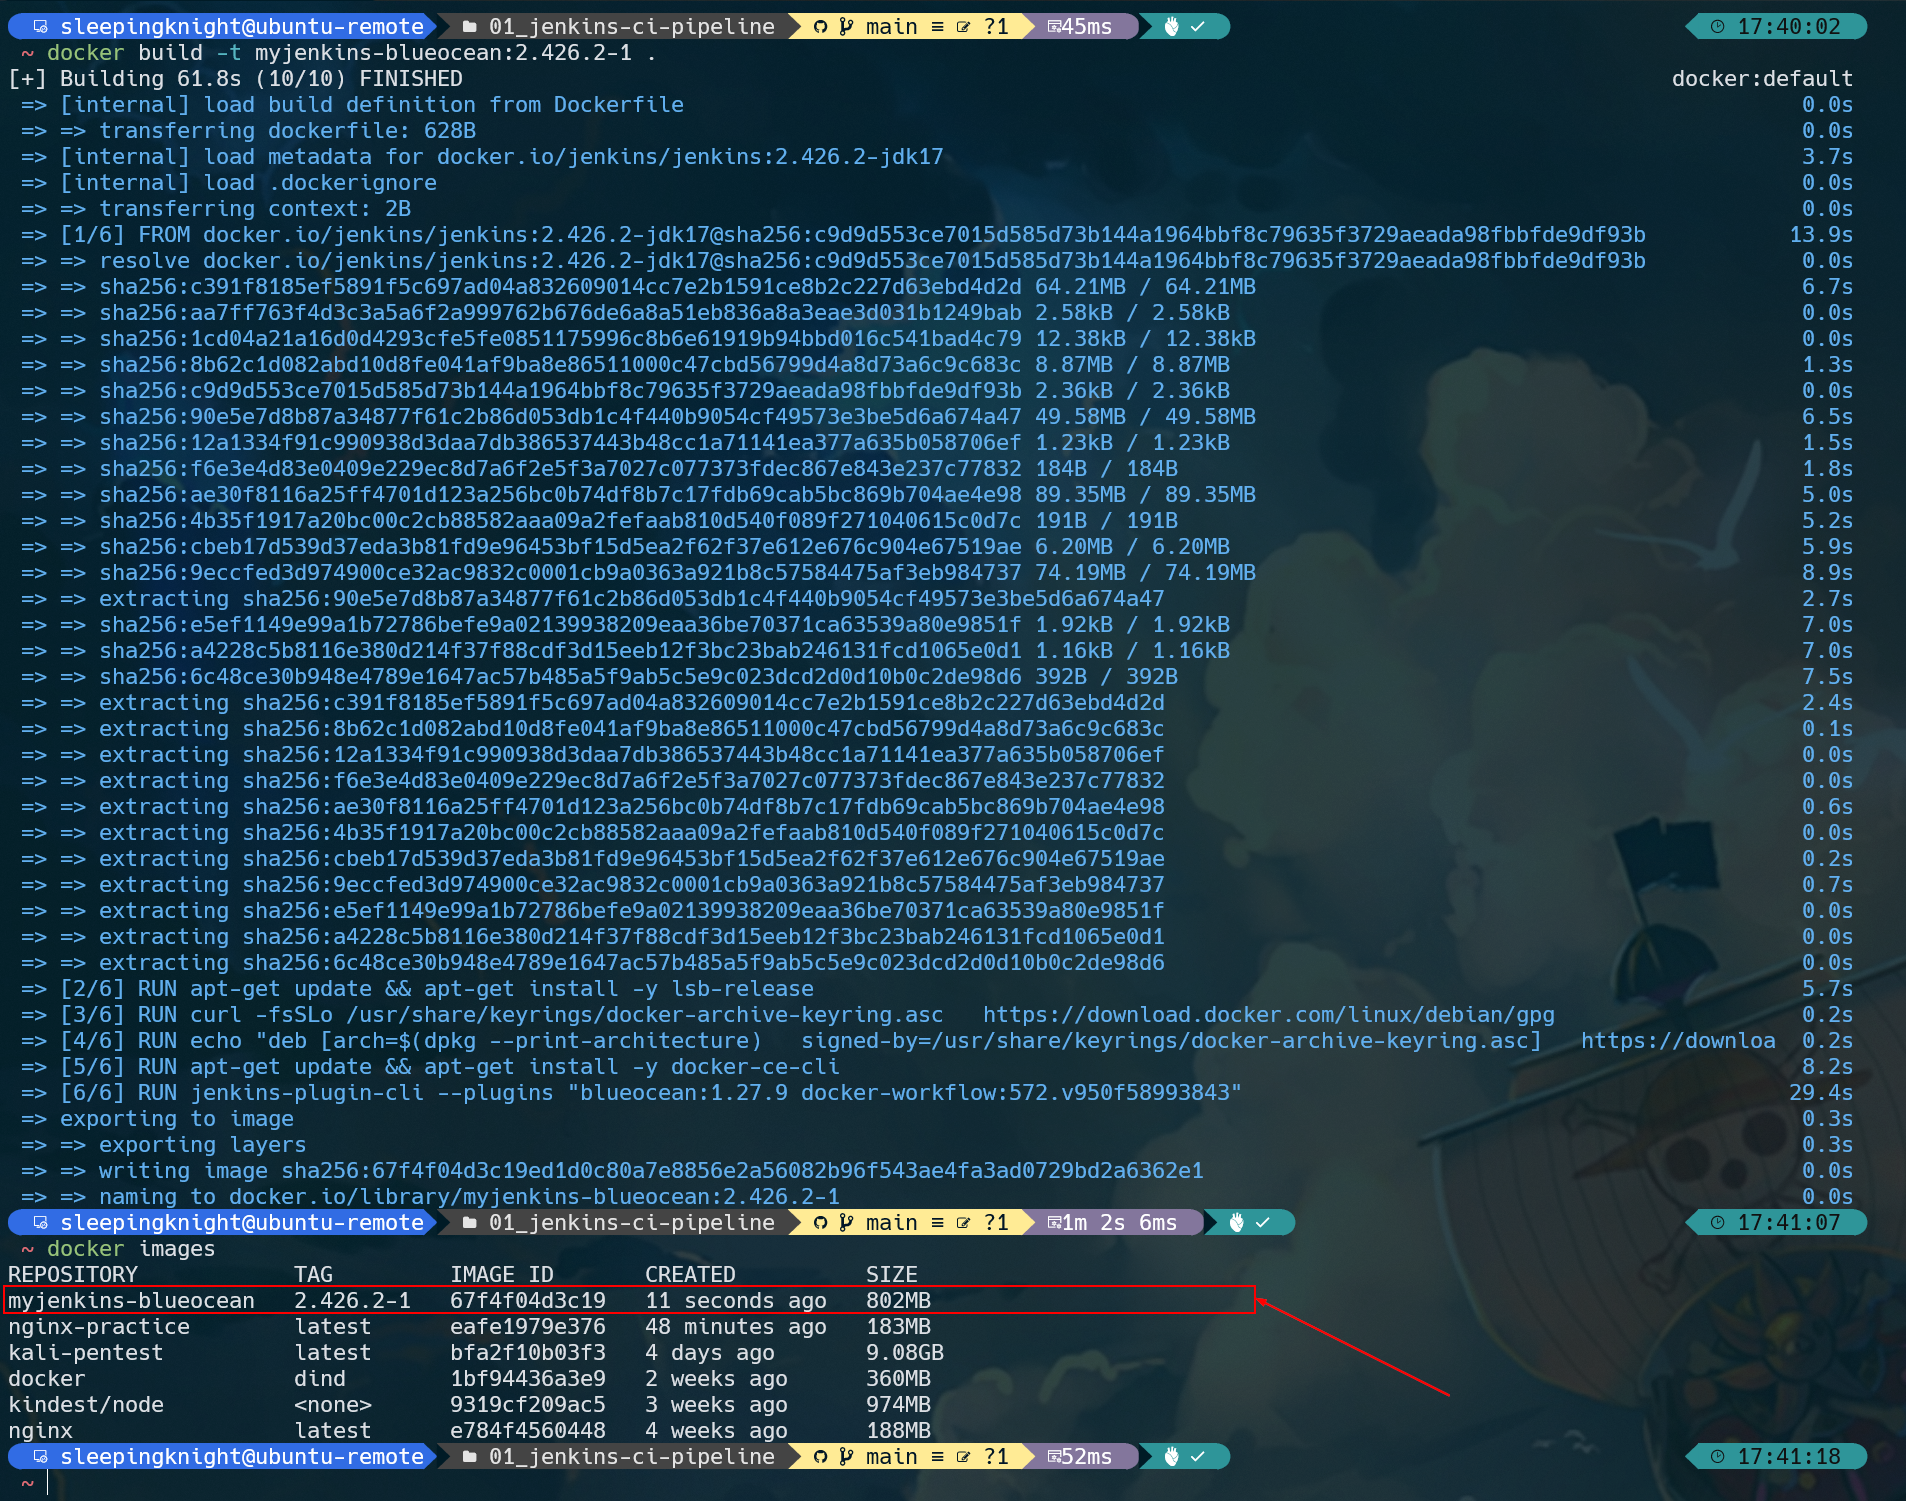
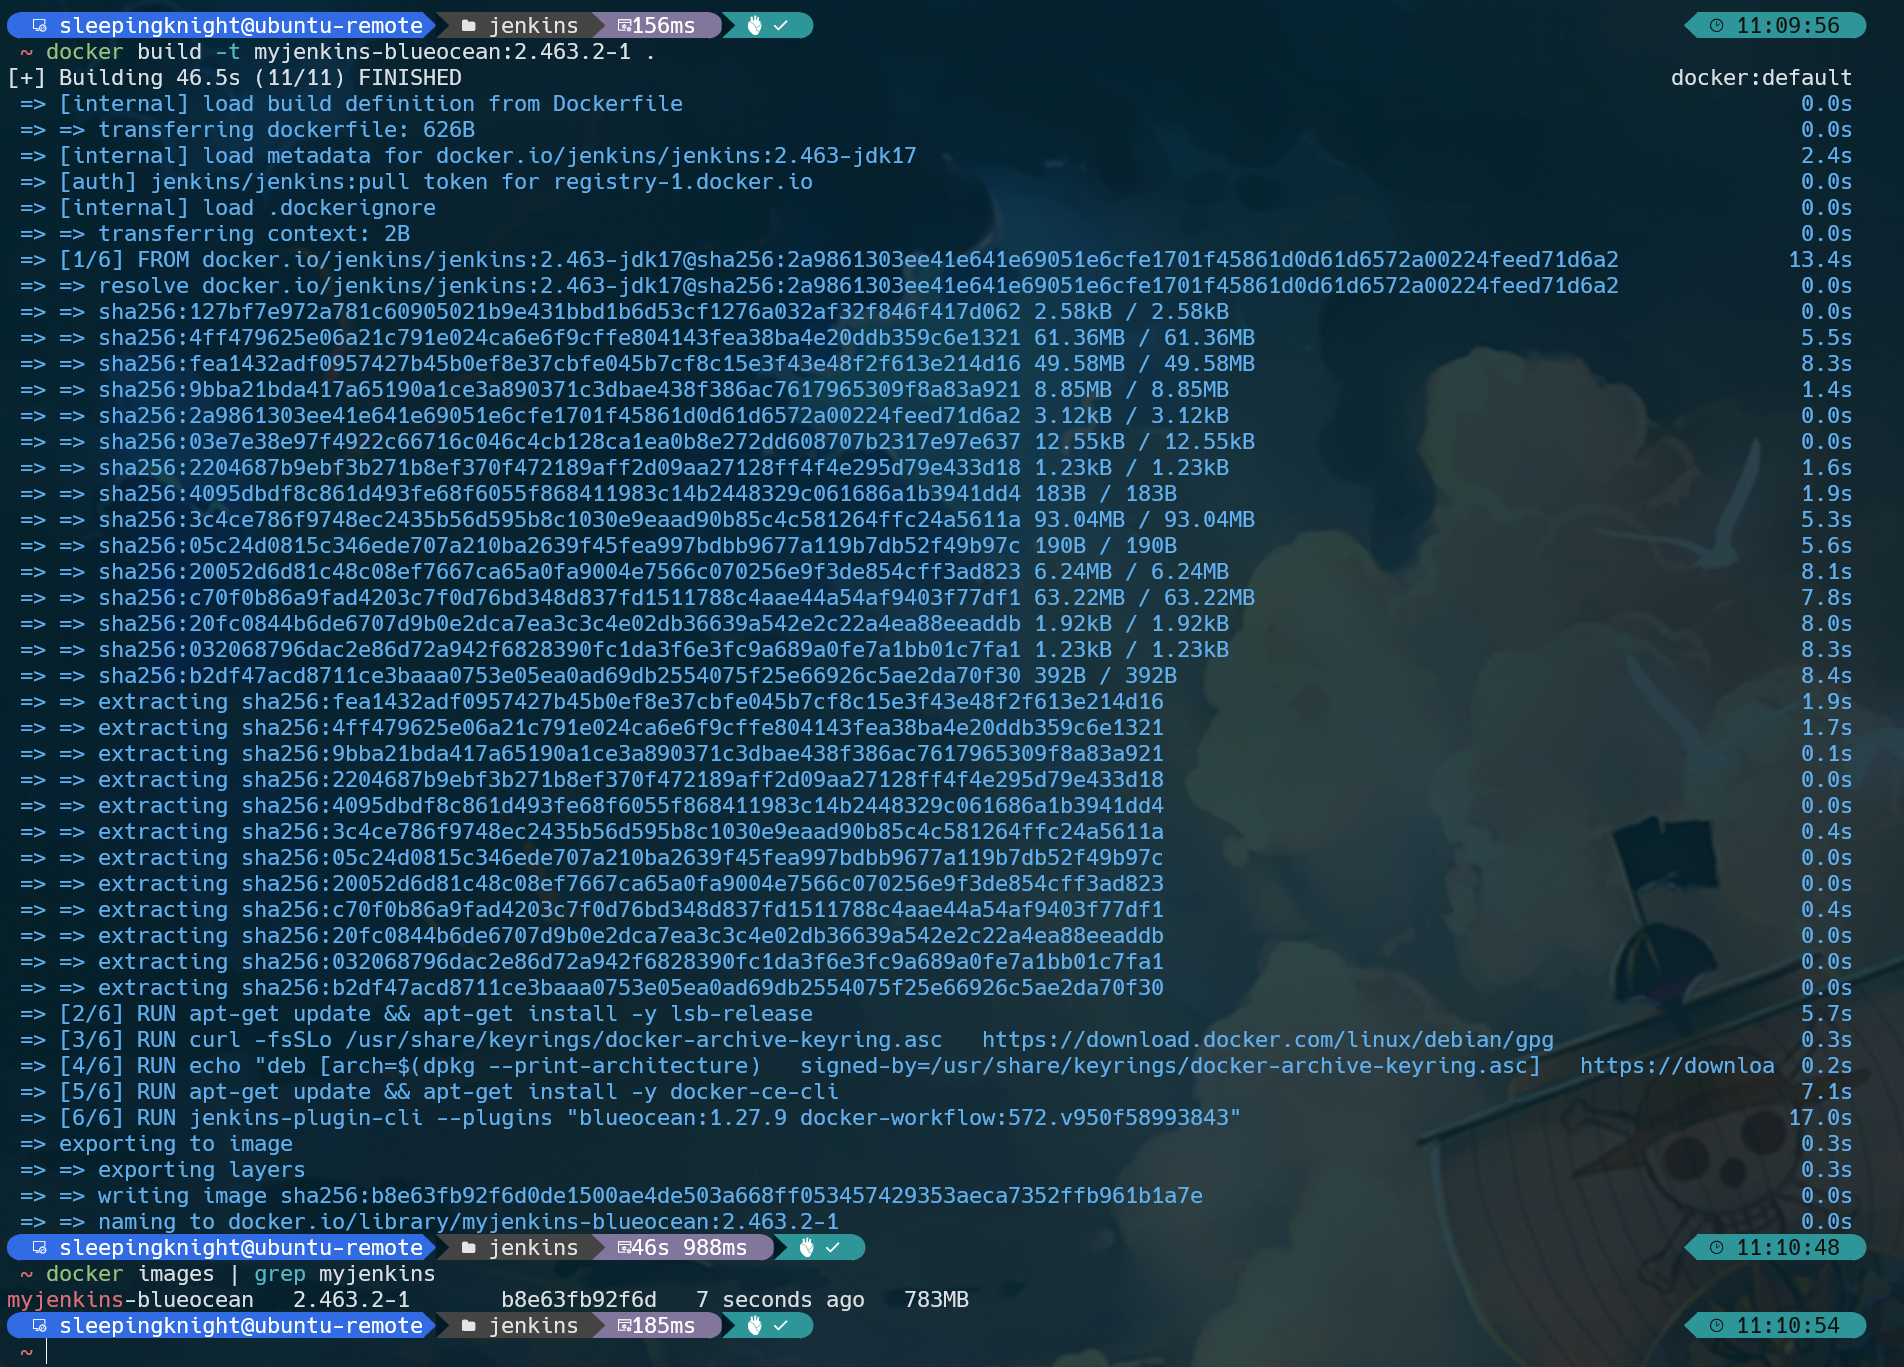
Add jenkins tools setup readme

Changed region(s): [[0.0, 0.0, 1.0, 0.9832], [0.7747, 0.9217, 0.9606, 1.0], [0.9606, 0.9832, 0.9916, 1.0]]

diff --git a/README.md b/README.md
@@ -5,7 +5,7 @@ docker network create jenkins
 ```
 ![Alt text](pics/01_create-docker-network.png)
 
-**Step 2:** We will run the React App using a Docker container in a Docker container (more precisely in a Blue Ocean container). This practice is called dind, aka `docker in docker`. So, please download and run `docker:dind` Docker image using the following command.
+**Step 2:** We will run the E-Commerce Java Application using a Docker container in a Docker container (more precisely in a Blue Ocean container). This practice is called dind, aka `docker in docker`. So, please download and run `docker:dind` Docker image using the following command.
 ```shell
 docker run \
   --name jenkins-docker \
@@ -17,7 +17,7 @@ docker run \
   --volume jenkins-docker-certs:/certs/client \
   --volume jenkins-data:/var/jenkins_home \
   --publish 2376:2376 \
-  --publish 3000:3000 --publish 5000:5000 \
+  --publish 8070:8070 --publish 5000:5000 \
   --restart always \
   docker:dind \
   --storage-driver overlay2
@@ -45,7 +45,7 @@ The following is an explanation of the command above.
 
 - **--publish 2376:2376:** Expose the Docker daemon port on the host machine (your computer). This is useful for executing Docker commands on the host machine (your computer) to control the inner Docker daemon.
 
-- **--publish 3000:3000 --publish 5000:5000:** Exposes ports 3000 and 5000 of the dind (docker in docker) container.
+- **--publish 8070:8070--publish 5000:5000:** Exposes ports 3000 and 5000 of the dind (docker in docker) container.
 
 - **--restart always:** ensures the container restarts and stays up not only when there is a failure but also after the server in use has also restarted.
 
@@ -58,7 +58,7 @@ It also mapping the Docker volume
 
 **Step 3:** Create `Dockerfile` and copy the following contents to your Dockerfile.
 ```shell
-FROM jenkins/jenkins:2.426.2-jdk17
+FROM jenkins/jenkins:2.463-jdk17
 USER root
 RUN apt-get update && apt-get install -y lsb-release
 RUN curl -fsSLo /usr/share/keyrings/docker-archive-keyring.asc \
@@ -69,17 +69,17 @@ RUN echo "deb [arch=$(dpkg --print-architecture) \
   $(lsb_release -cs) stable" > /etc/apt/sources.list.d/docker.list
 RUN apt-get update && apt-get install -y docker-ce-cli
 USER jenkins
-RUN jenkins-plugin-cli --plugins "blueocean:1.27.9 docker-workflow:572.v950f58993843"
+RUN jenkins-plugin-cli --plugins "blueocean:1.27.9 docker-workflow:572.v950f58993843" # New version blueocean:1.27.13 docker-workflow:580.vc0c340686b_54
 ```
 
-**Step 4:** Create a new Docker image from the previous Dockerfile and name it `myjenkins-blueocean:2.426.2-1`.
+**Step 4:** Create a new Docker image from the previous Dockerfile and name it `myjenkins-blueocean:2.463.2-1`.
 ```shell
-docker build -t myjenkins-blueocean:2.426.2-1 .
+docker build -t myjenkins-blueocean:2.463.2-1 .
 ```
 
 ![Alt text](pics/04_jenkins-blueocean-image.png)
 
-**Step 5:** After that, run `myjenkins-blueocean:2.426.2-1` image as a container in Docker using the following command.
+**Step 5:** After that, run `myjenkins-blueocean:2.463.2-1` image as a container in Docker using the following command.
 ```shell
 docker run \
   --name jenkins-blueocean \
@@ -95,7 +95,7 @@ docker run \
   --volume "$HOME":/home \
   --restart=on-failure \
   --env JAVA_OPTS="-Dhudson.plugins.git.GitSCM.ALLOW_LOCAL_CHECKOUT=true" \
-  myjenkins-blueocean:2.426.2-1 
+  myjenkins-blueocean:2.463.2-1 
 ```
 
 ![Alt text](pics/05_run-jenkins.png)
@@ -123,7 +123,7 @@ The following is an explanation of the command above.
 
 - **--env JAVA_OPTS="-Dhudson.plugins.git.GitSCM.ALLOW_LOCAL_CHECKOUT=true":** Allows checkout on local repositories.
 
-- **myjenkins-blueocean:2.426.2-1:** The name of the Docker image you created in the previous step.
+- **myjenkins-blueocean:2.463.2-1:** The name of the Docker image you created in the previous step.
 
 
 # Part 2: Setting up Jenkins Wizard
@@ -207,3 +207,51 @@ cat /nexus-data/admin.password && echo
 **Step 6:** Enable anonymous access
 
 ![Alt text](pics/16_nexus-login-4.png)
+
+
+# Part 5: Setup Jenkins Plugins and Tools
+**Step 1:** Let's install some plugins on the Jenkins VM. From the Dashboard, navigate to Manage Jenkins in System Configuration and select Plugins.
+
+![Alt text](pics/17_manage-jenkins.png)
+
+**Step 2:** Go to the Available Plugins tab on the left side. Search for **SonarQube Scanner** which will start the analysis.
+
+**Step 3:** Search for nexus and select **Nexus Artifact Uploader**. 
+
+**Step 4:** Search for docker and select **"Docker"**, **"docker-build step"**, and **"CloudBees Docker Build and Publish"**.
+
+![Alt text](pics/18_install-plugins.png)
+
+**Step 5:** After that search for owasp and select **"OWASP Dependency-Check"** and search for jdk and select **"Eclipse Temurin installer"**
+
+![Alt text](pics/19_install-plugins-2.png)
+
+This will help us install multiple versions of jdk whichever we want to use we can go with that specific version. Finally, click on the Install button to Install all the selected plugins on the Jenkins VM. 
+
+**Step 6:** Now navigate to the Manage Jenkins page and select the Tools option.
+
+![Alt text](pics/20_jenkins-tools.png)
+
+**Step 7:** In **JDK Installations** select **Add JDK** option give it a name and select **Install automatically** under which select **Install from adoptium.net** and select jdk 17 version. repeat the same steps for jdk 11 version in case jdk 17 fails we should have jdk 11.
+
+![Alt text](pics/21_jenkins-tools-jdk.png)
+
+**Step 8:** Under **SonarQube Scanner Installations** select **Add SonarQube Scanner** provide a name like sonarqube-scanner. 
+
+![Alt text](pics/22_jenkins-tools-sonar.png)
+
+**Step 9:** For **Maven Installations** select **Add Maven** and provide a name like maven and select the version from **Install from Apache** dropdown list.
+
+![Alt text](pics/23_jenkins-tools-maven.png)
+
+**Step 10:** Under **Dependency-Check Installations** select **Add Dependency-Check** provide a name like dependency-check. Select **Install Automatically** radio button and click on **Add Installer** dropdown list and select **Install from github.com** and select a version.
+
+![Alt text](pics/24_jenkins-tools-dp.png)
+
+**Step 11:** Same for the Docker Installations click on the Add Docker button to provide a name such as docker. Select **Install Automatically** radio button and click on **Add Installer** dropdown list and select **Download from docker.com**
+
+![Alt text](pics/25_jenkins-tools-docker.png)
+
+**Step 12:** Click on the Apply button and then on the Save button to save the configurations. 
+
+Now all the tools are configured with Jenkins but not yet connected the SonarQube and Nexus services with Jenkins.
